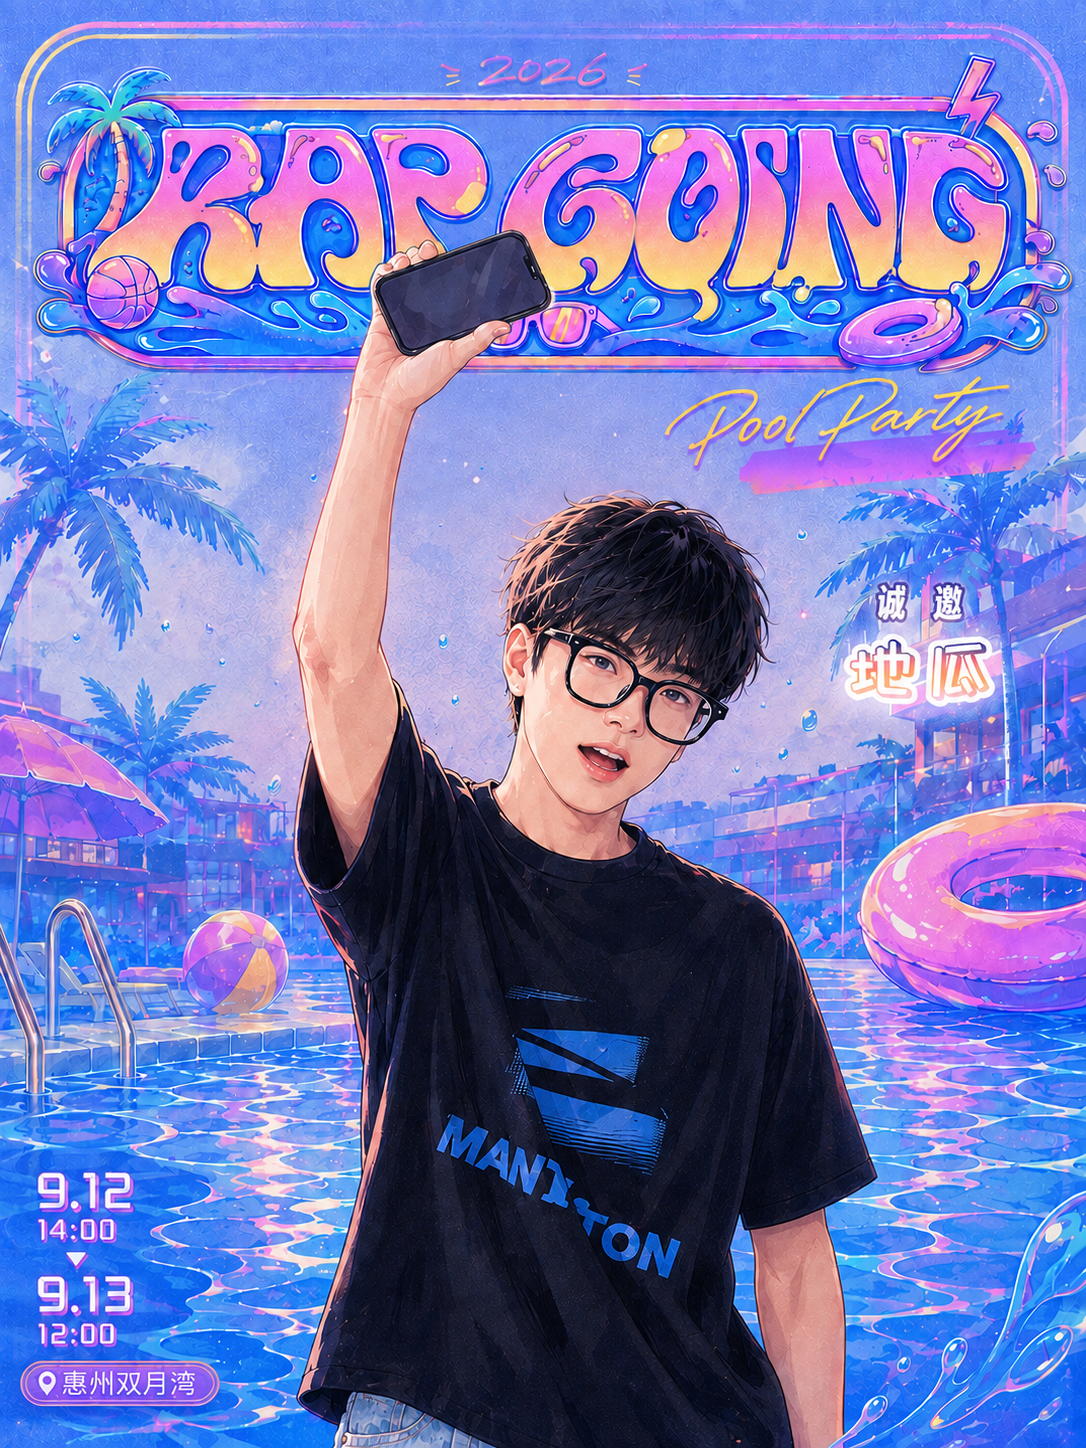
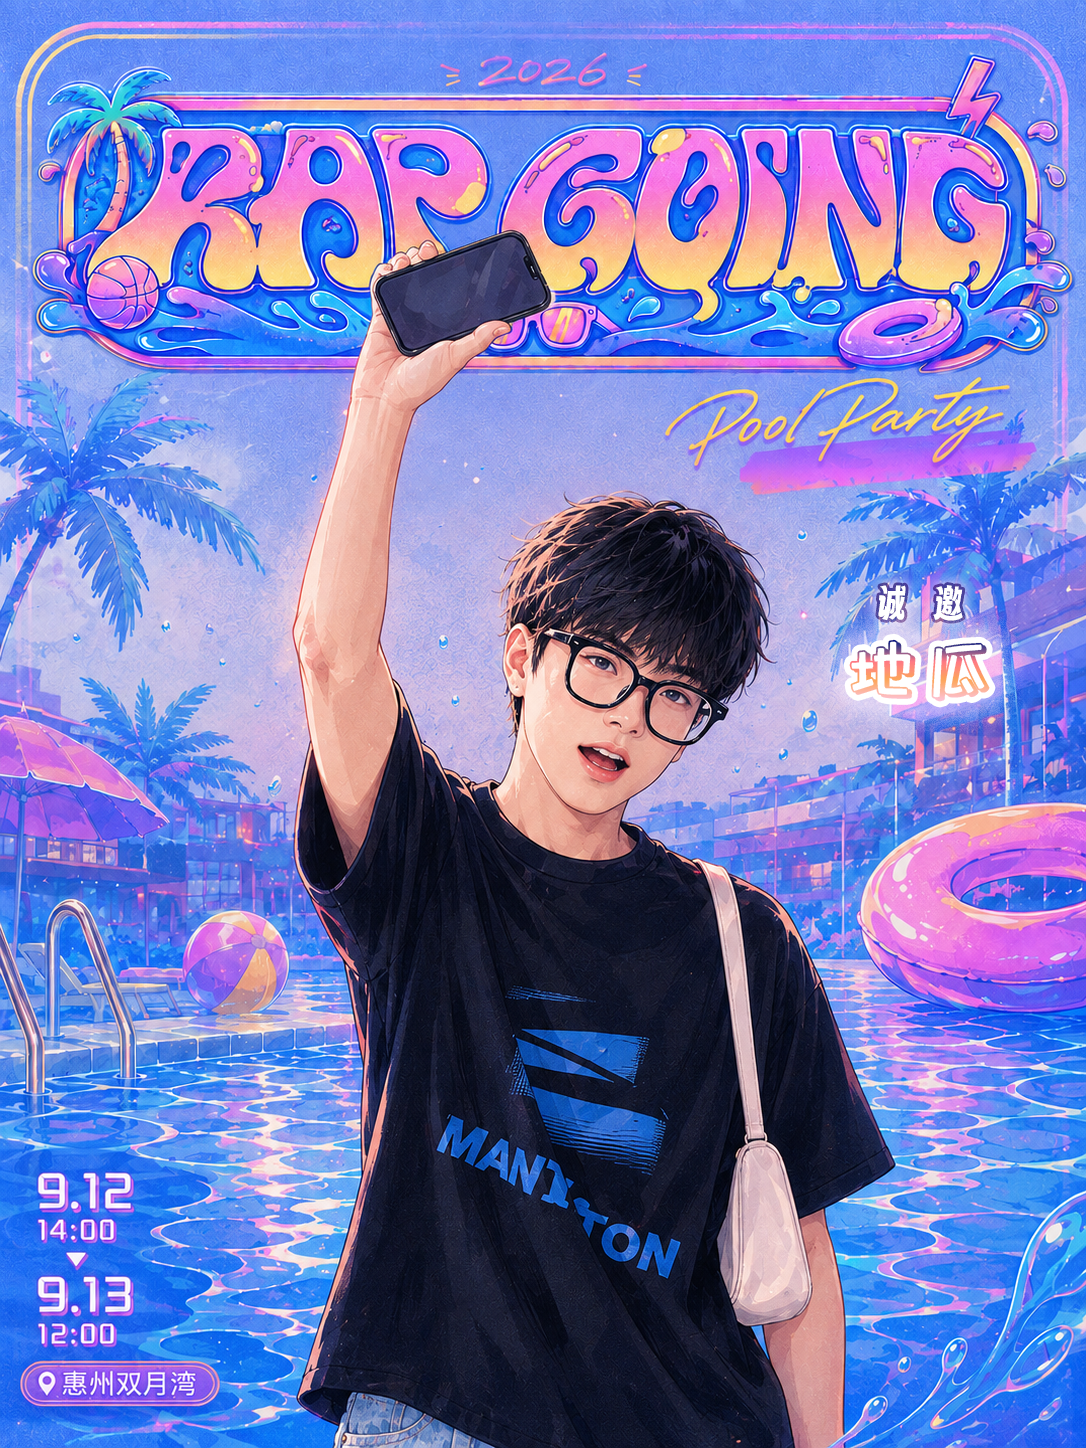
V4

diff --git a/invitation/app.js b/invitation/app.js
@@ -95,6 +95,12 @@
       original: './assets/originals/zebei.png',
       aliases: ['泽北', '黄宗泽', '陈强', 'cq'],
       greeting: '哟，不是去看库里嘛？'
+    },
+    'seven': {
+      file: './assets/invitations/seven.webp',
+      original: './assets/originals/seven.png',
+      aliases: ['seven', '7', '赛文', '77', '七七', '七'],
+      greeting: '宝宝，虽然你没来，但是我心里有你~'
     }
   };
 

diff --git a/invitation/README.md b/invitation/README.md
@@ -4,7 +4,7 @@
 
 本版本包含：
 
-- 18 人邀请函昵称 / 别名匹配
+- 19 人邀请函昵称 / 别名匹配
 - 4 个固定彩蛋文案
 - 成功页去掉顶部重复 Logo
 - 成功页新增【下载原图】功能
@@ -22,9 +22,9 @@ invitation/
   assets/
     logo.webp
     invitations/
-      18 张轻量版 WebP
+      19 张轻量版 WebP
     originals/
-      18 张高清 PNG 原图
+      19 张高清 PNG 原图
 ```
 
 ## 使用方式
@@ -42,3 +42,6 @@ invitation/
 - 网页正常浏览只加载轻量图，不会先加载全部原图。
 - 点击【下载原图】后，浏览器才会打开 / 下载对应 PNG。
 - iPhone 上有时会先打开原图页面，再通过长按保存，这属于正常现象。
+
+
+- 新增人物：seven（别名：seven / 7 / 赛文 / 77 / 七七 / 七）
